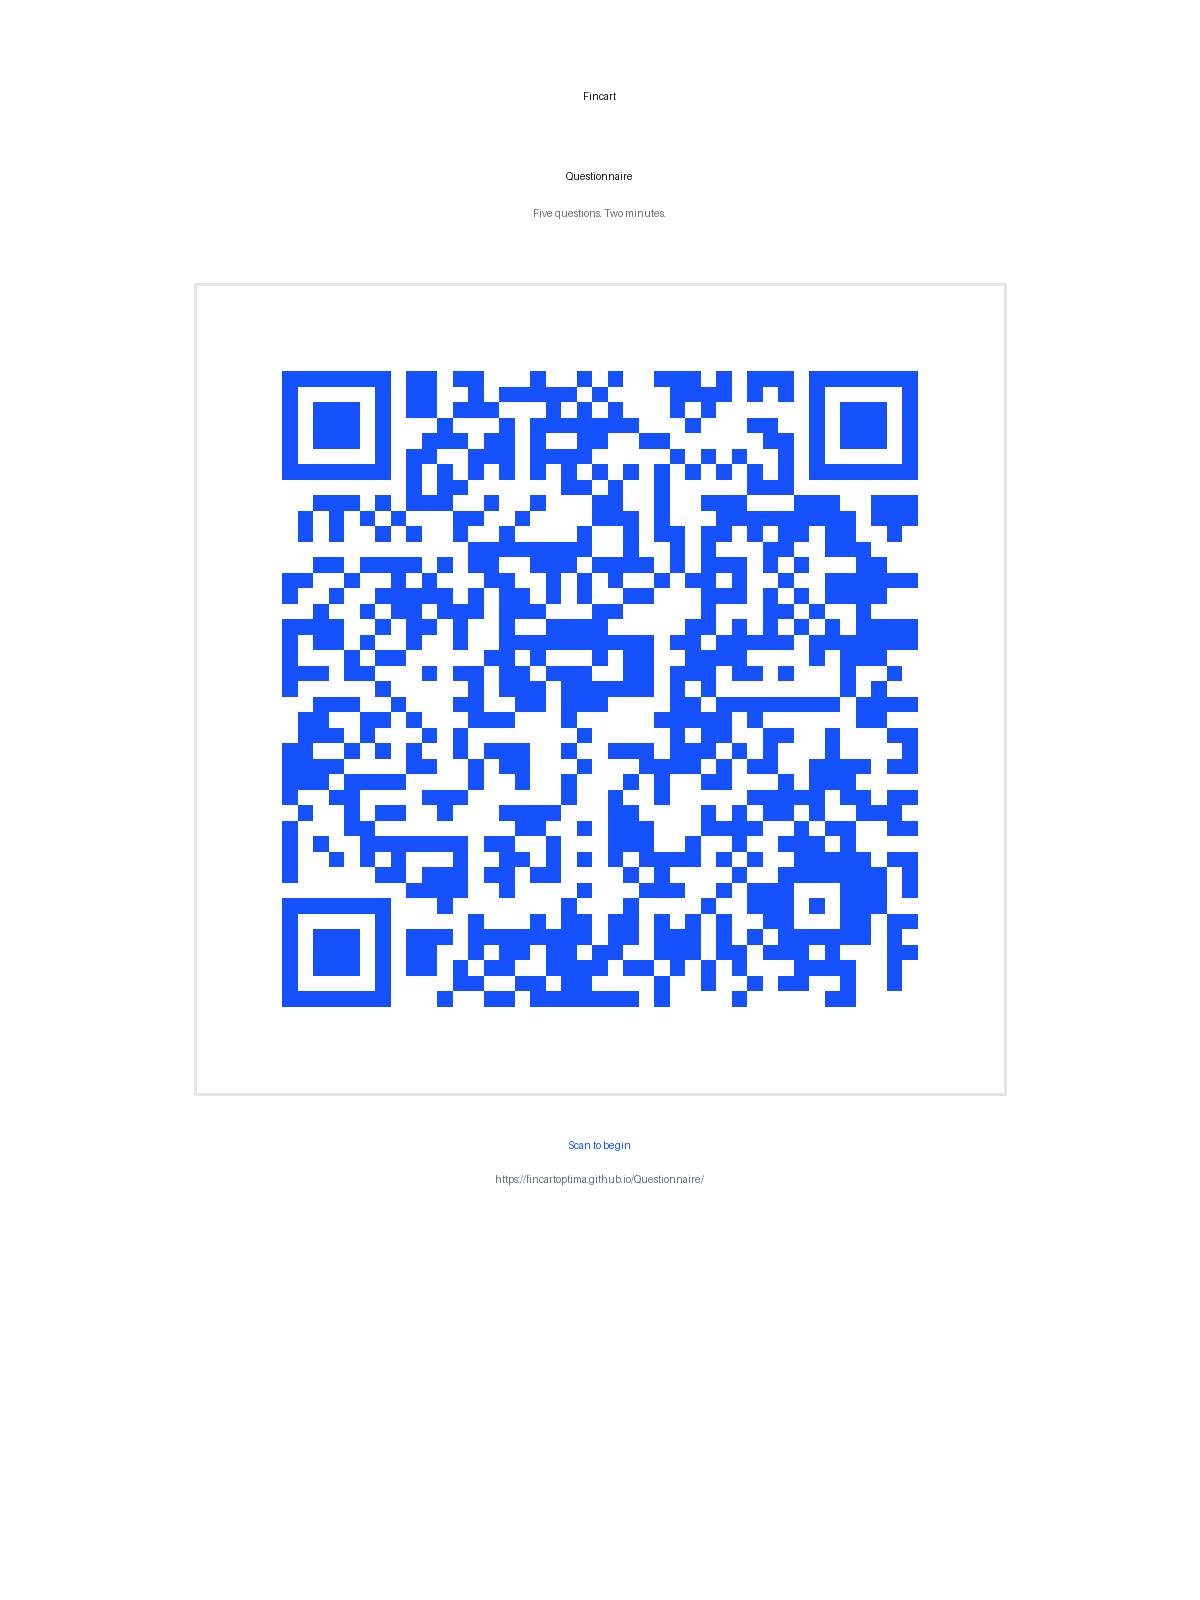
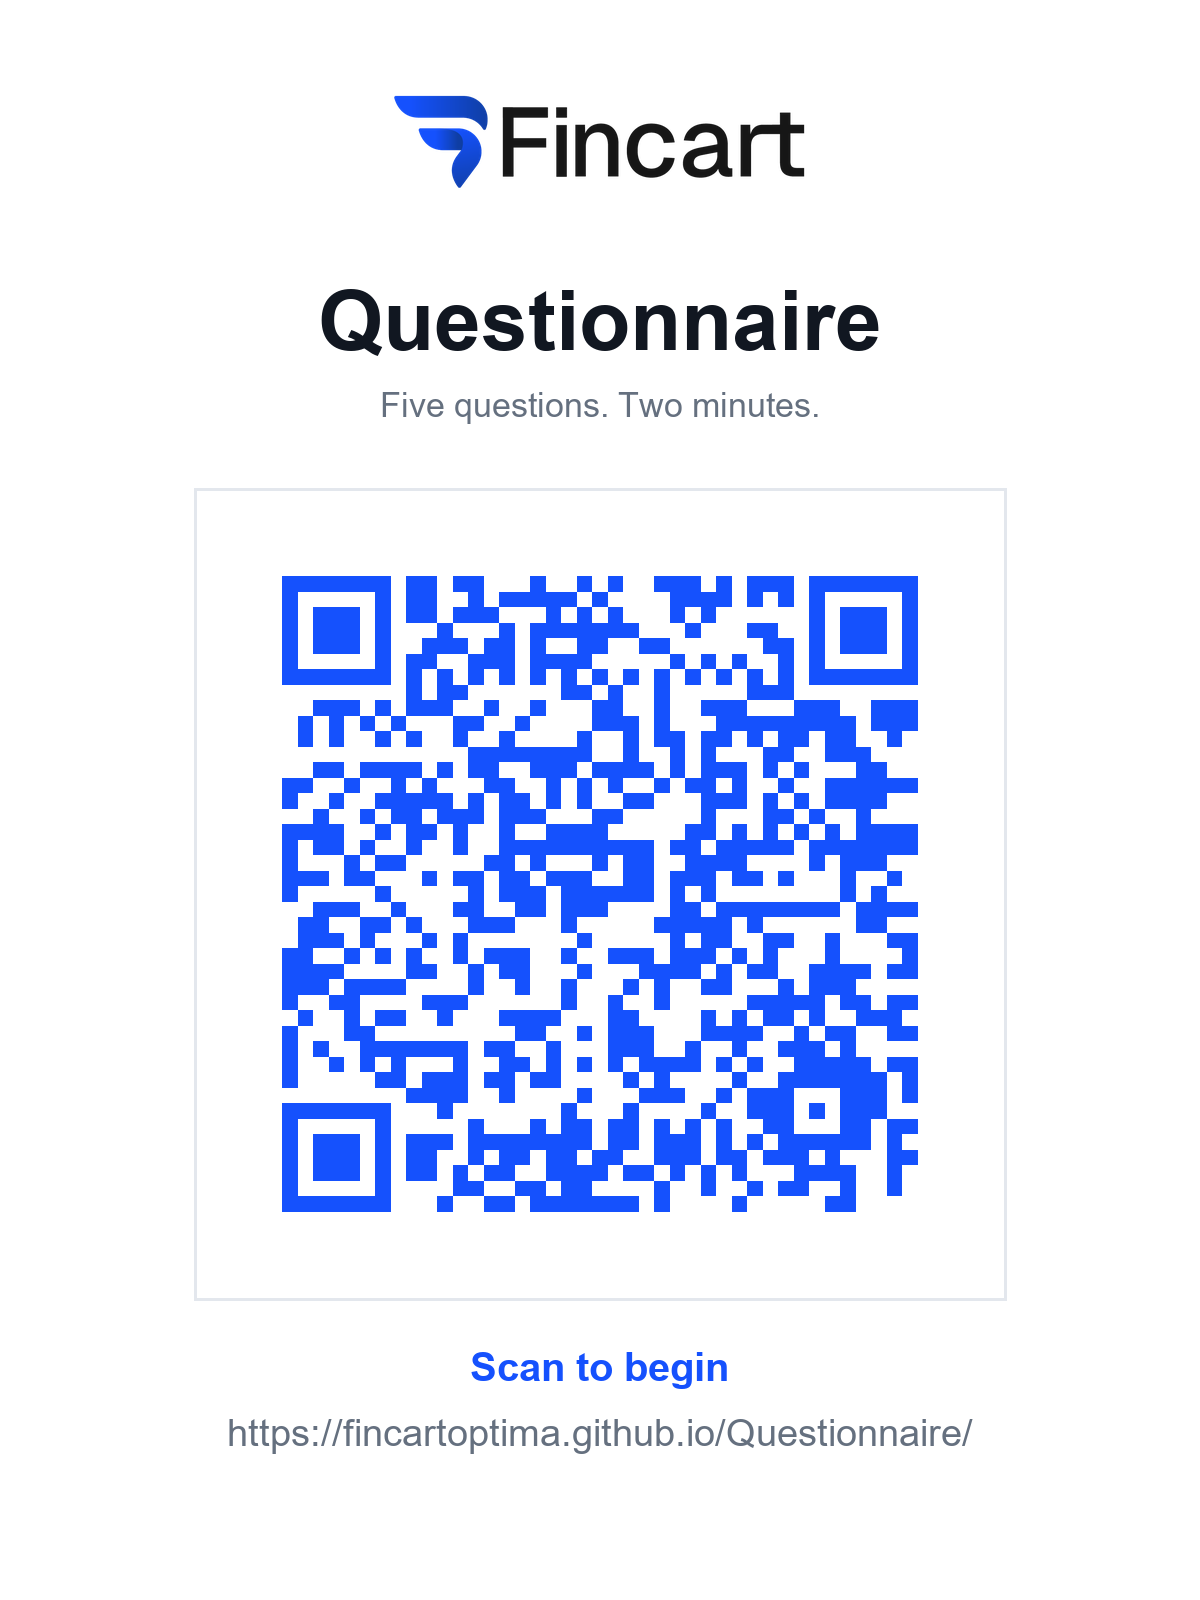
Bigger title and URL text on the QR card; fix Windows font fallback
The card's font() helper only knew Linux DejaVu paths, so on Windows
it silently fell back to PIL's fixed-size default bitmap font -
every text size request was being ignored. Added Arial as a
cross-platform fallback so requested sizes actually take effect, then
increased "Questionnaire" (56px->84px) and the URL line (26px->38px).

Also fixes a second issue: the default --logo path is resolved
relative to the working directory, so running the script from inside
qr/ silently dropped the real logo image and drew "Fincart" as plain
text instead. No code change needed there, just invoke with the
correct relative path.

diff --git a/qr/make_qr.py b/qr/make_qr.py
@@ -154,6 +154,8 @@ def build_card(qr_png: Path, out: Path, url: str, logo: Path | None) -> None:
         for name in (
             "DejaVuSans-Bold.ttf" if bold else "DejaVuSans.ttf",
             "/usr/share/fonts/truetype/dejavu/DejaVuSans%s.ttf" % ("-Bold" if bold else ""),
+            "arialbd.ttf" if bold else "arial.ttf",
+            "C:/Windows/Fonts/arialbd.ttf" if bold else "C:/Windows/Fonts/arial.ttf",
         ):
             try:
                 return ImageFont.truetype(name, size)
@@ -176,7 +178,7 @@ def build_card(qr_png: Path, out: Path, url: str, logo: Path | None) -> None:
     else:
         y = centre("Fincart", y, font(72, True), INK) + 70
 
-    y = centre("Questionnaire", y, font(56, True), INK) + 26
+    y = centre("Questionnaire", y, font(84, True), INK) + 30
     y = centre("Five questions. Two minutes.", y, font(34), MUTED) + 90
 
     qr = Image.open(qr_png).convert("RGB")
@@ -192,7 +194,7 @@ def build_card(qr_png: Path, out: Path, url: str, logo: Path | None) -> None:
 
     y = centre("Scan to begin", y, font(40, True), BRAND_BLUE) + 22
     display = url if len(url) <= 52 else url[:49] + "..."
-    centre(display, y, font(26), MUTED)
+    centre(display, y, font(38), MUTED)
 
     card.save(out, "PNG", optimize=True)
 
